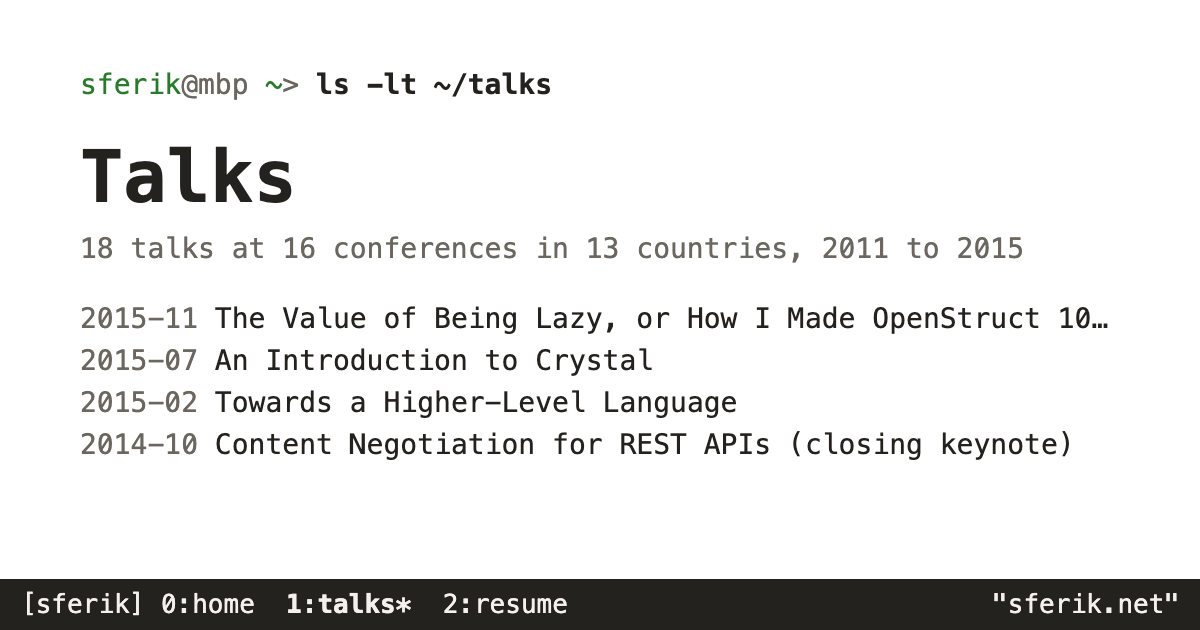
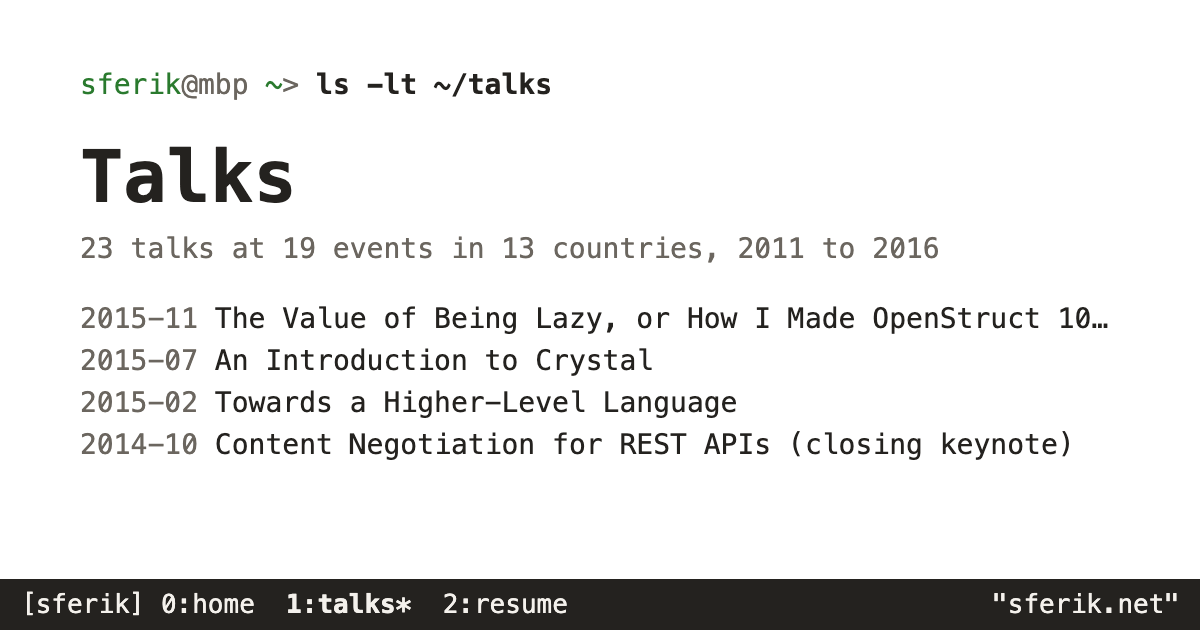
Add five talks: a panel at SXSW, three at the Berlin Ruby User Group, and one at SF.rb
Secrets to Powerful APIs (SXSW, March 2015), Ruby Trivia, Ruby Trivia 2,
and Ruby Trivia 3 (Berlin Ruby User Group, October to December 2015),
and Enumerator::Lazy (SF.rb, August 2016), with their slides on Speaker
Deck. Not all of these are conferences, so the talks page counts events.

Changed region(s): [[0.2467, 0.3619, 0.8633, 0.4222], [0.0617, 0.3619, 0.0925, 0.4222]]

diff --git a/tests/server/server.test.ts b/tests/server/server.test.ts
@@ -222,7 +222,7 @@ describe("offline (snapshots from data/)", () => {
     assert.equal(JSON.parse((await app.get("/name", { accept: JSON_ })).body).commit, "8c0d698");
     assert.match((await app.get("/name")).body, /^8c0d698 Rename Erik Michaels-Ober to Erik Berlin \(2017\)\nWhen Diana/);
 
-    assert.equal(JSON.parse((await app.get("/talks", { accept: JSON_ })).body).talks.length, 18);
+    assert.equal(JSON.parse((await app.get("/talks", { accept: JSON_ })).body).talks.length, 23);
     const talks = (await app.get("/talks")).body;
     assert.match(talks, /^Mar 2011 {2}GUI Programming with MacRuby$/m);
     assert.match(talks, /\nPodcasts:\nFeb 2016 {2}The Crystal Programming Language \(Ruby Rogues, episode 248\)\n {10}topenddevs\.com/);
@@ -499,8 +499,9 @@ describe("offline (snapshots from data/)", () => {
     const html = (await app.get("/talks", { accept: "text/html" })).body;
     const list = JSON.parse(/<script type="application\/ld\+json">(.*?)<\/script>/.exec(html)![1]);
     assert.equal(list["@type"], "ItemList");
-    assert.equal(list.itemListElement.length, 18);
-    const first = list.itemListElement[0].item;
+    assert.equal(list.itemListElement.length, 23);
+    assert.equal(list.itemListElement[0].item.name, "Enumerator::Lazy"); // the newest
+    const first = list.itemListElement.find((e: { item: { superEvent: { name: string } } }) => e.item.superEvent.name === "Rails Israel").item;
     assert.equal(first["@type"], "Event");
     assert.equal(first.name, "The Value of Being Lazy, or How I Made OpenStruct 10X Faster");
     assert.equal(first.startDate, "2015-11");
@@ -570,7 +571,7 @@ describe("offline (snapshots from data/)", () => {
     assert.match(res.type, /^application\/atom\+xml/);
     assert.match(res.body, /^<\?xml version="1\.0" encoding="utf-8"\?>\n<feed xmlns="http:\/\/www\.w3\.org\/2005\/Atom">/);
     const entries = res.body.match(/<entry>/g)!;
-    assert.equal(entries.length, 18);
+    assert.equal(entries.length, 23);
     assert.match(res.body, /<title>The Value of Being Lazy, or How I Made OpenStruct 10X Faster<\/title>\n {4}<updated>2015-11-01T00:00:00Z<\/updated>/);
     assert.match(res.body, /<link rel="alternate" type="text\/html" title="Video" href="https:\/\/www\.youtube\.com\/watch\?v=6lQeBfSVrpk"\/>/);
     assert.match(res.body, /<link rel="related" type="text\/html" title="Slides" href="https:\/\/speakerdeck\.com\/sferik\/the-value-of-being-lazy"\/>/);

diff --git a/public/talks.html b/public/talks.html
@@ -15,10 +15,7 @@
     <meta property="og:image" content="https://sferik.net/og-talks.png" />
     <meta property="og:image:width" content="1200" />
     <meta property="og:image:height" content="630" />
-    <meta
-      property="og:image:alt"
-      content="A terminal: ls -lt ~/talks, then Talks, 18 talks at 16 conferences in 13 countries, 2011 to 2015, and four of them."
-    />
+    <meta property="og:image:alt" content="A terminal: ls -lt ~/talks, then Talks, 23 talks at 19 events in 13 countries, 2011 to 2016, and four of them." />
     <meta name="twitter:card" content="summary_large_image" />
     <meta name="twitter:site" content="@sferik" />
     <link rel="canonical" href="https://sferik.net/talks" />

diff --git a/src/client/site.ts b/src/client/site.ts
@@ -598,7 +598,7 @@ async function buildTalks(main: HTMLElement) {
         el(
           "p",
           {},
-          `${m.talks.length} talks at ${conferences} conferences in ${countries} countries, ${years.at(-1)} to ${years[0]}. Talks from before 2017 are listed under `,
+          `${m.talks.length} talks at ${conferences} events in ${countries} countries, ${years.at(-1)} to ${years[0]}. Talks from before 2017 are listed under `,
           // Like the commit on the home page, it shows the name change: git show, in the home page's shell.
           el("a", { href: "/?run=git+show+8c0d698" }, "my former name, Erik Michaels-Ober"),
           ". Slides are also on ",

diff --git a/tests/site.spec.ts b/tests/site.spec.ts
@@ -817,7 +817,7 @@ test.describe("the resume", () => {
 test.describe("the talks page", () => {
   test("links the former name to the name change, shown with git show in the home page's shell", async ({ page }) => {
     await page.goto("/talks");
-    await expect(page.getByText("18 talks at 16 conferences in 13 countries")).toBeVisible();
+    await expect(page.getByText("23 talks at 19 events in 13 countries")).toBeVisible();
     await page.getByRole("link", { name: "my former name, Erik Michaels-Ober" }).click();
     await expect(page.locator(".repl-log")).toContainText("commit 8c0d698bb6cb54346ac26a38f7056ee64dafd64d");
     await expect(page).toHaveURL("/");

diff --git a/scripts/og.ts b/scripts/og.ts
@@ -60,7 +60,7 @@ const CARDS: Record<string, string> = {
     "ls -lt ~/talks",
     1,
     `<h1>Talks</h1>
-    <p class="dim">${talks.talks.length} talks at ${conferences} conferences in 13 countries, ${years.at(-1)} to ${years[0]}</p>
+    <p class="dim">${talks.talks.length} talks at ${conferences} events in 13 countries, ${years.at(-1)} to ${years[0]}</p>
     <ol>${featured.map((t) => `<li><span class="dim">${t.date}</span>  ${esc(t.title)}</li>`).join("")}</ol>`,
   ),
   "og-resume.png": card(
